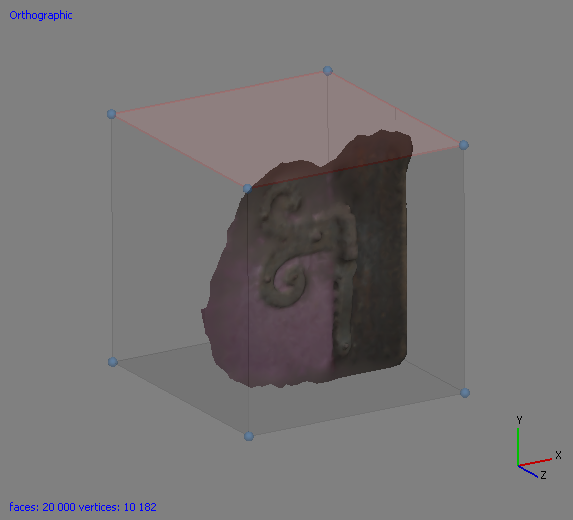
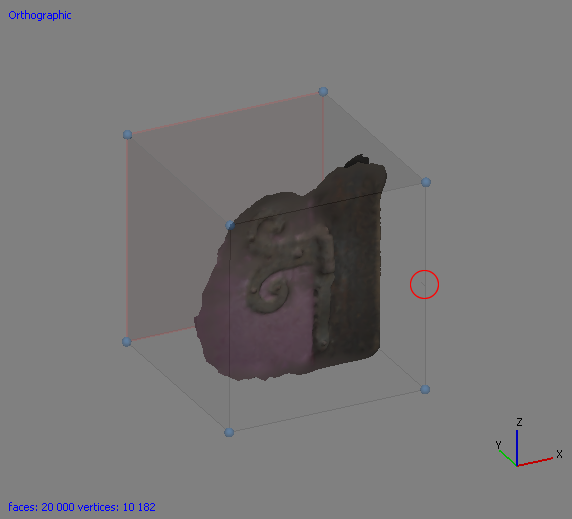
Photoscan tutorial update

diff --git a/tutorials/photoscan.md b/tutorials/photoscan.md
@@ -224,28 +224,100 @@ Podziałka skali pojawiła się w panelu `Scale bars` Wpisujemy odległość ref
 Po wyeksportowaniu modelu do zewnętrzengo programu (w parametrach importu domyślną jednostką były **centymetry**), widzimy że skala modelu jest poprawna (Fig. 9.5).
 
 ![Wyeksportowany model"](photoscan_09_05.png "Wyeksportowany model")
-<sup>Fig. 9.5 Wyeksportowany model"</sup>
+<sup>Fig. 9.5 Wyeksportowany model</sup>
 
 ## 10. Kalibracja koordynat (wersja PRO)
 
-![Standardowy system koordynat](photoscan_10_01.png "Standardowy system koordynat")
-<sup>Fig. 10.1 Standardowy system koordynat</sup>
+Ostatnim krokiem w procesie kalibracji sceny, jest kalibracja koordynat. Poprawnia orientacja obiektu względem systemu koordynat ułatwia póżniejszą pracę przy optymalizacji modelu w zewnętrznych programach.
 
-![Koordynaty FBX](photoscan_10_02.png "Koordynaty FBX")
-<sup>Fig. 11.2 Koordynaty FBX (osie Z i X zamienione)</sup>
+Przy kalibracji koordynat bardzo pomocny jest autorski skrypt, stworzony przez studio Inifinite Realities.
+
+> Photoscan obsługuje autorskie skrypty tylko w wersji Pro.
+
+[Skrypty Agisoft Pro](http://www.ir-ltd.net/uploads/posts/Agisoft-Photoscan-PRO-scripts.zip)
+
+Po ściągnięciu skryptów, kopiujemy zawartość archiwum do folderu `C:\Users\[username]\AppData\Local\Agisoft\PhotoScan Pro\scripts`. Nasatępnie restartujemy program. Skrypty uruchamiamy z menu `Custom Scripts`.
+
+Następnie ustawiamy widok na ortograficzny i używając ortograficznych rzutów opisanych w 3 kroku (Front, Top, Right, etc.), obracamy region zakrezu (`Bounding box`, Fig. 10.1), tak aby wcięcia znajdowały się po prawej stronie, a czerwona płaszczyzna z tyłu modelu (Fig. 10.2). 
+
+![Custom scripts](photoscan_10_01.png "Custom scripts")
+<sup>Fig. 10.2 Custom scripts</sup>
+
+![Standardowy system koordynat](photoscan_10_02.png "Standardowy system koordynat")
+<sup>Fig. 10.2 Standardowy system koordynat</sup>
+
+![Standardowy system koordynat](photoscan_10_02.png "Standardowy system koordynat")
+<sup>Fig. 10.2 Standardowy system koordynat</sup>
+
+Jeżeli eksportujemy do formatu FBX, czerwona płąszczyzna powinna znajdować się u góry modelu (Fig. 10.3).
+
+![Koordynaty FBX](photoscan_10_03.png "Koordynaty FBX")
+<sup>Fig. 10.3 Koordynaty FBX (osie Z i X zamienione)</sup>
+
+Następnie uruchamiamy skrypt z menu `Custom menu > Cordinates to bounding box + rotate`.
+
+Ostatnią czynnością jaką należy wykonać jest ustalenie punktu `zero` sceny. Punkt ten znajduje się w centrum regionu zakresu. Aby dokładniej określić położenie punktu zero, możemy pomniejszyć region zakresu (Fig. 10.1, 10.4).
+
+![Określanie punktu zero](photoscan_10_04.png "Określanie punktu zero")
+<sup>Fig. 10.2 Określanie punktu zero</sup>
+
+> **UWAGA!**   
+> Jeżeli przy obracamy również sam model, zmienia się przy tym też orientacja regionu zakresu. Po rotacji modelu należu ponownnie zorientować bounding box, a następnie uruchomić skrypt.
 
 ## 11. Eksport
 
-### Decimate
+* Decimate
+* FBX
+* Obj
 
-### FBX
-
-### Obj
+* 3DS Max
+* zBrush
 
 ## Apendiks
 
 ### Jak fotografować
 
+* Use a digital camera with reasonably high resolution (5 MPix or more).
+* Avoid ultra-wide angle and fish-eye lenses. The best choice is 50 mm focal length (35 mm film
+equivalent) lenses. It is allowed to vary from 20 to 80 mm.
+* Fixed lenses are preferred. If zoom lenses are used - focal length should be set either to maximal or
+minimal value.
+Using RAW data losslessly converted to the TIFF files is preferred, since JPG compression induces
+unwanted noise to the images.
+* Take images at maximal possible resolution.
+* ISO should be set to the lowest value, otherwise high ISO values will induce additional noise to images.
+* Aperture value should be high enough to result in sufficient focal depth: it is important to capture sharp,
+not blurred photos.
+* Shutter speed should not be too fast, otherwise blur can occur due to slight movements.
+Avoid not textured, shiny, mirror or transparent objects.
+* If still have to, shoot shiny objects under a cloudy sky.
+* Avoid unwanted foregrounds.
+* Avoid moving objects within the scene to be reconstructed.
+* Avoid absolutely flat objects or scenes.
+PhotoScan operates with the original images. So do not crop or geometrically transform, i.e. resize or
+rotate, the images.
+
+* More photos is better than not enough.
+* Number of "blind-zones" should be minimized since PhotoScan is able to reconstruct only geometry
+visible from at least two cameras.
+In case of aerial photography the overlap requirement can be put in the following figures: 60% of side
+overlap + 80% of forward overlap.
+* Each photo should effectively use the frame size: object of interest should take up the maximum area.
+In some cases portrait camera orientation should be used.
+* Do not try to place full object in the image frame, if some parts are missing it is not a problem whereas
+these parts appear on other images.
+* Good lighting is required to achieve better quality of the results, yet blinks should be avoided. It is
+recommended to remove sources of light from camera fields of view.
+* If you are planning to carry out any measurements based on the reconstructed model, do not forget to
+locate at least two markers with a known distance between them on the object. Alternatively, you could
+place a ruler within the shooting area.
+* In case of aerial photography and demand to fulfil georeferencing task, even spread of ground control
+points (GCPs) (at least 10 across the area to be reconstructed) is required to achieve results of highest
+quality, both in terms of the geometrical precision and georeferencing accuracy. Yet, Agisoft PhotoScan
+is able to complete the reconstruction and georeferencing tasks without GCPs, too.
+
 ### Maskowanie zdjęć
+
+[Maskowanie i rekonstrukcja - video tutorial](https://www.youtube.com/watch?v=2_insfYWPkA)
 
 
